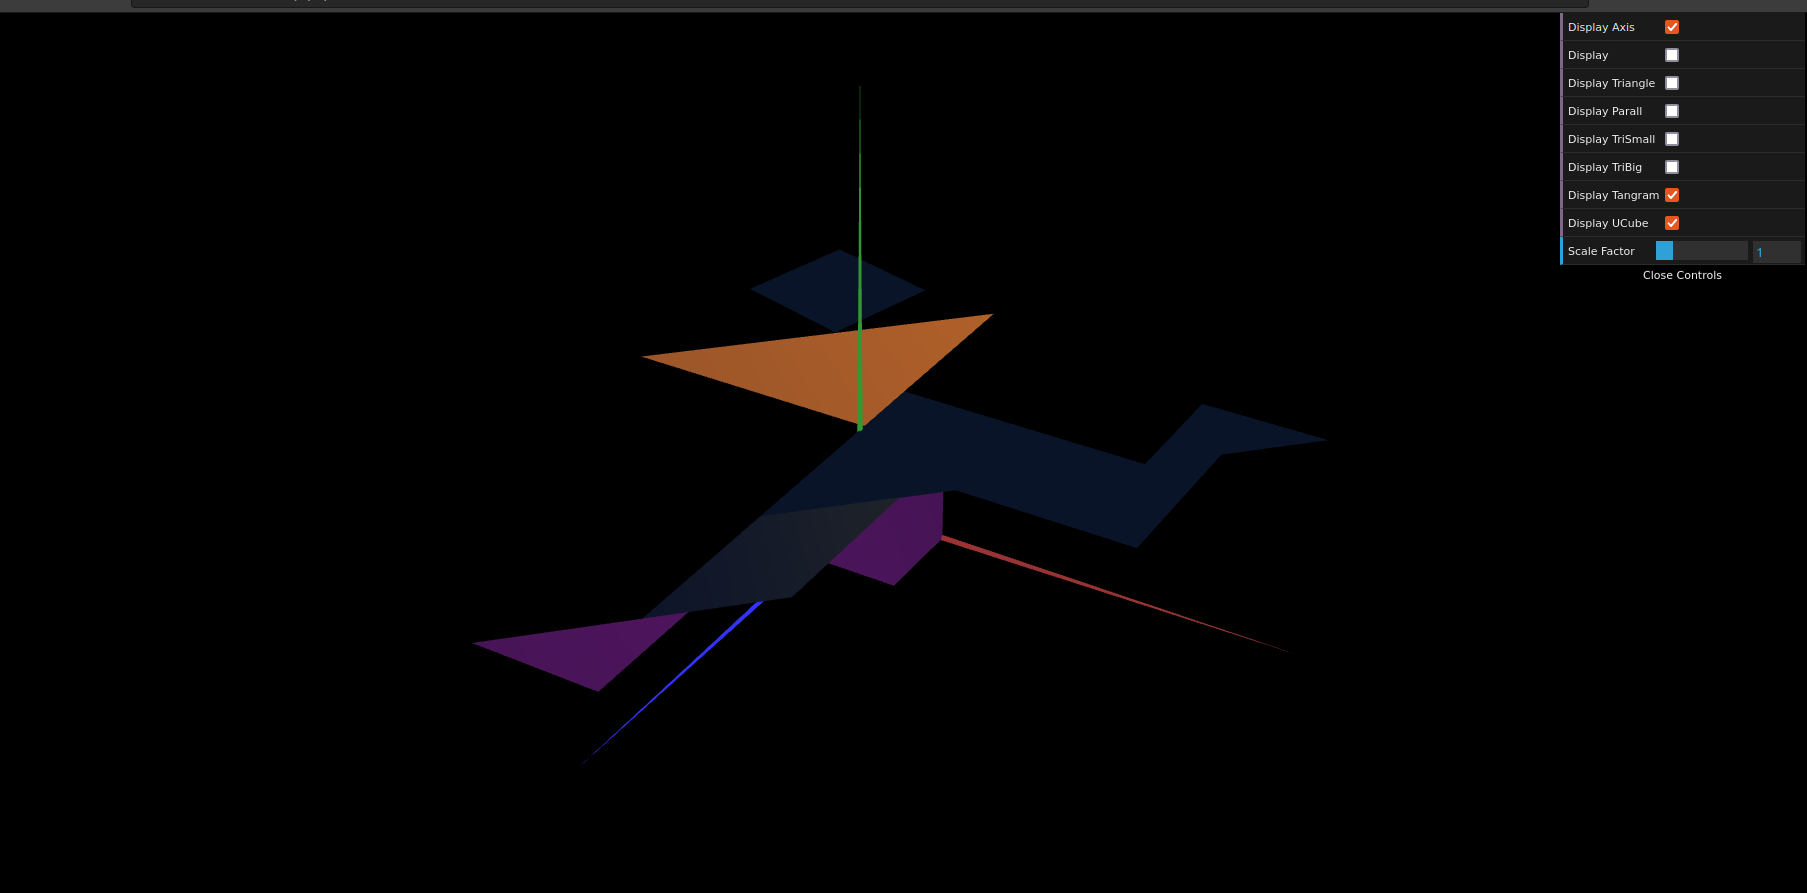
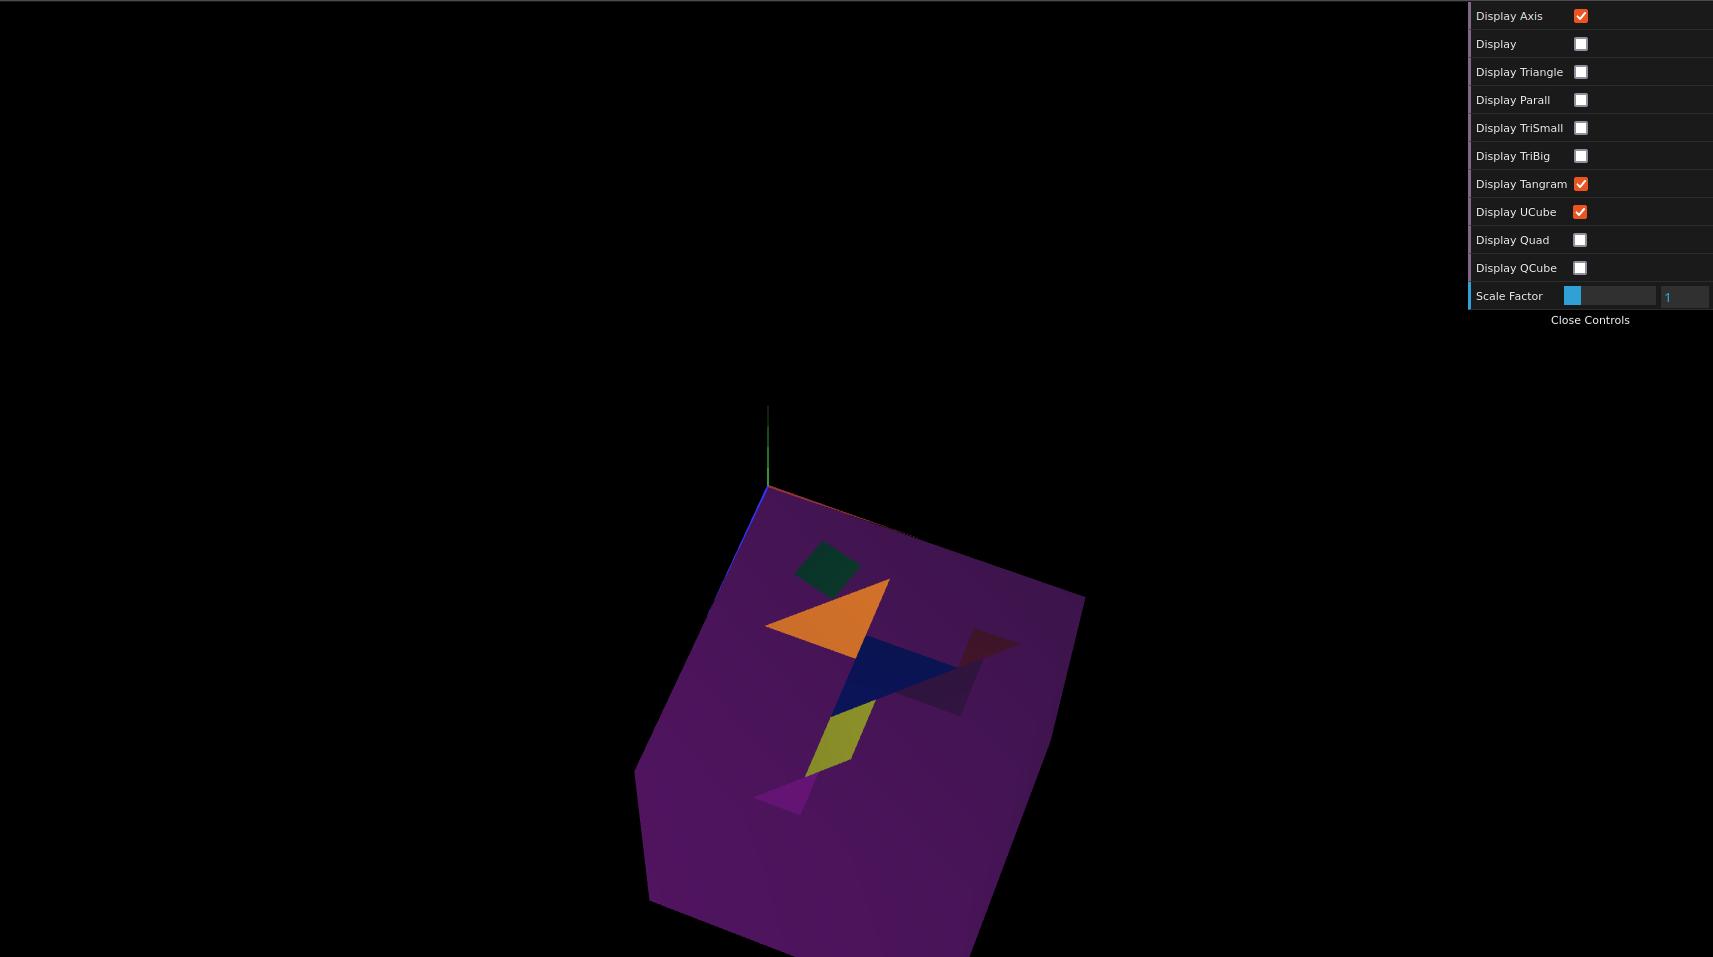
tp2-2 && tp2-3

Changed region(s): [[0.2475, 0.2721, 0.7426, 1.0], [0.0, 0.0, 1.0, 0.3326]]

diff --git a/tp2/MyScene.js b/tp2/MyScene.js
@@ -51,7 +51,7 @@ export class MyScene extends CGFscene {
     this.displayParallelogram = false;
     this.displayTriangleSmall = false;
     this.displayTriangleBig = false;
-    this.displayTangram = false;
+    this.displayTangram = true;
     this.displayUnitCube = false;
     this.displayQuad = false;
     this.displayUnitCubeQuad = true;
@@ -124,7 +124,7 @@ export class MyScene extends CGFscene {
     if(this.displayTriangleBig) this.triangleBig.display();
     
     if(this.displayTangram && (this.displayUnitCube || this.displayUnitCubeQuad)) {
-      this.translate(0.5, 1, 0.5);
+      this.translate(5, 0, 5);
       this.rotate(- Math.PI/2, 1, 0, 0);
     }
 

diff --git a/tp2/MyUnitCubeQuad.js b/tp2/MyUnitCubeQuad.js
@@ -23,7 +23,8 @@ export class MyUnitCubeQuad extends CGFobject {
 
     display() {
         this.scene.pushMatrix();
-        this.scene.translate(0, 0, -0.51); // push back to avoid z-fighting
+        this.scene.scale(10, 10, 10);
+        this.scene.translate(0, 0, -0.505); // push back to avoid z-fighting
         this.scene.setDiffuse(0.5,0.5,0.5,1);
 
         // Front square

diff --git a/tp2/MyUnitCube.js b/tp2/MyUnitCube.js
@@ -52,7 +52,8 @@ export class MyUnitCube extends CGFobject {
 
     display() {
         this.scene.pushMatrix();
-        this.scene.translate(0, 0, -0.51); // push back to avoid z-fighting
+        this.scene.scale(10, 10, 10);
+        this.scene.translate(0, 0, -0.505); // push back to avoid z-fighting
       
         super.display();
         this.scene.popMatrix();

diff --git a/tp2/MyDiamond.js b/tp2/MyDiamond.js
@@ -21,7 +21,9 @@ export class MyDiamond extends CGFobject {
 		//Counter-clockwise reference of vertices
 		this.indices = [
 			0, 1, 2,
-			1, 3, 2
+			1, 3, 2,
+			0, 2, 1,
+			1, 2, 3
 		];
 
 		//The defined indices (and corresponding vertices)

diff --git a/tp2/MyTriangle.js b/tp2/MyTriangle.js
@@ -19,7 +19,8 @@ export class MyTriangle extends CGFobject {
 
 		//Counter-clockwise reference of vertices
 		this.indices = [
-			0, 1, 2
+			0, 1, 2,
+			0, 2, 1
 		];
 
 		//The defined indices (and corresponding vertices)

diff --git a/tp2/README.md b/tp2/README.md
@@ -10,5 +10,5 @@
 - In exercise 2 we explored some more transformations, including applying a rotation to all objects
 ![Screenshot 1](screenshots/cg-t02g04-tp2-2.png)
 
-- In exercise 3 we observed a different way to make the same cubic shape
+- In exercise 3 we observed a different way to make the same cubic shape, that lead to a different color reflection on the object. We noticed there was a difference in between the two techniques.
 ![Screenshot 1](screenshots/cg-t02g04-tp2-3.png)
